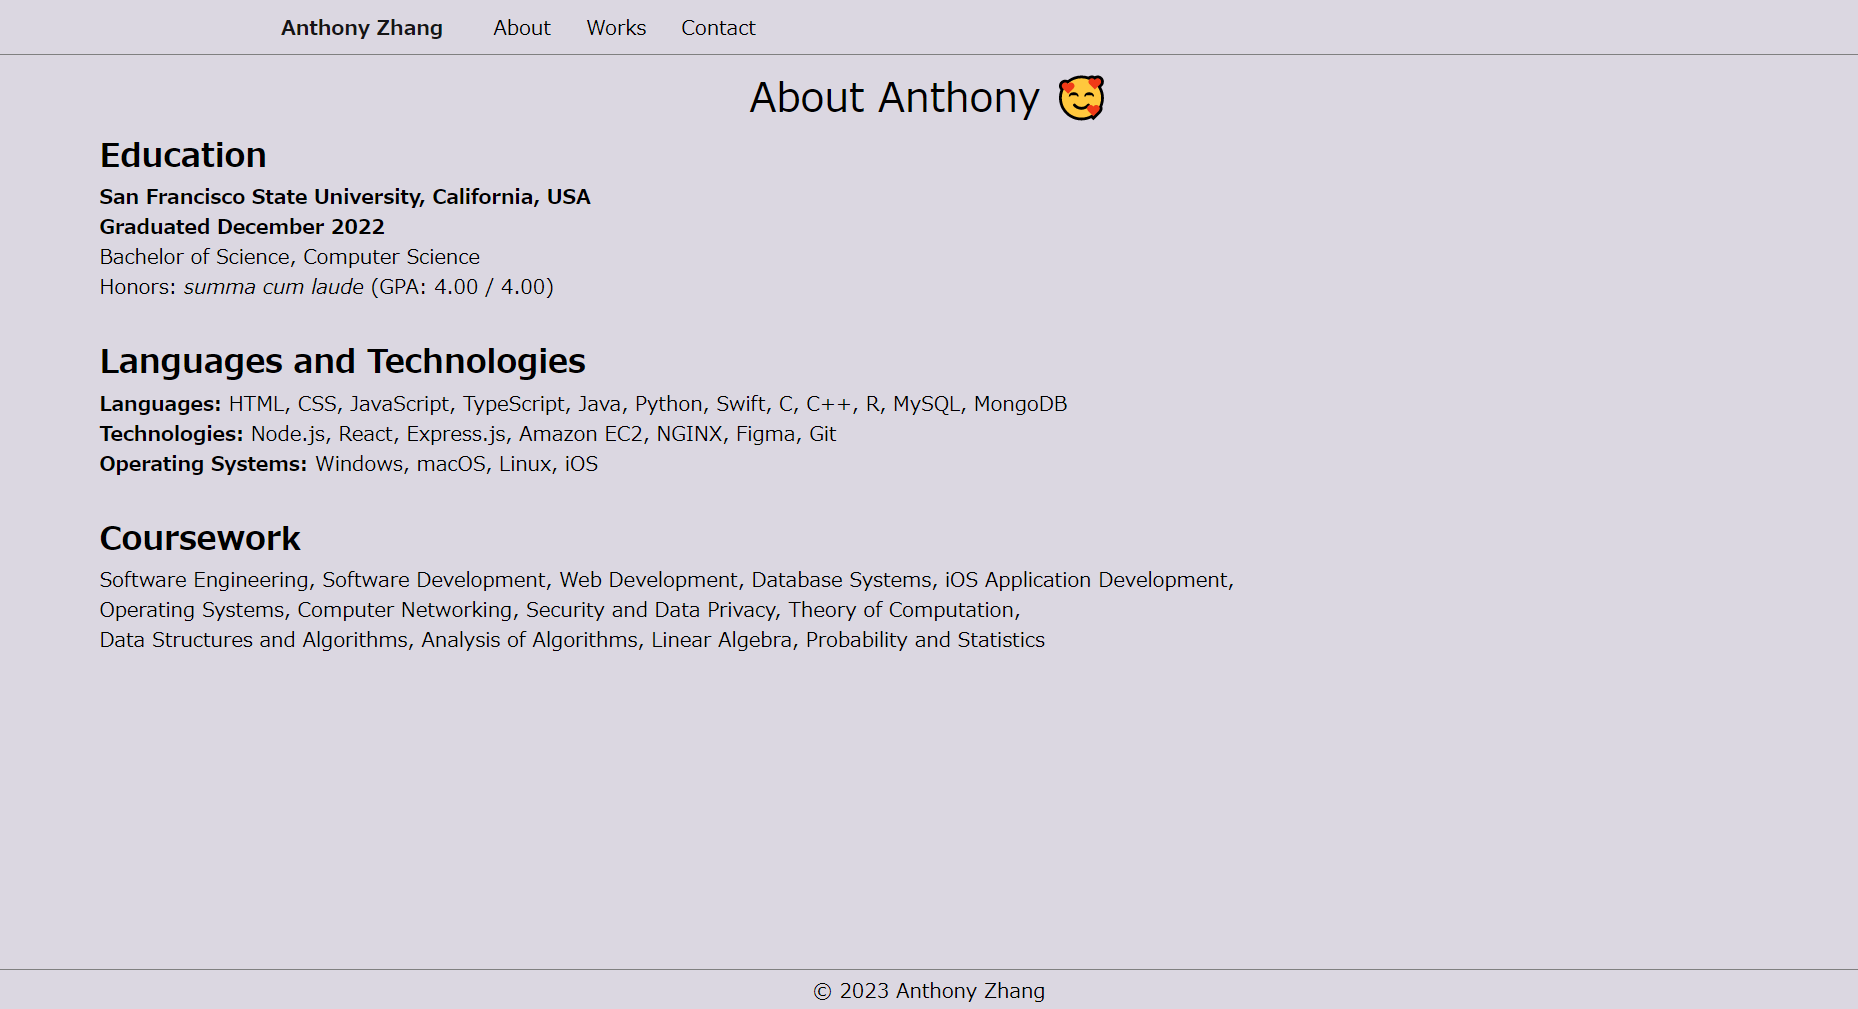
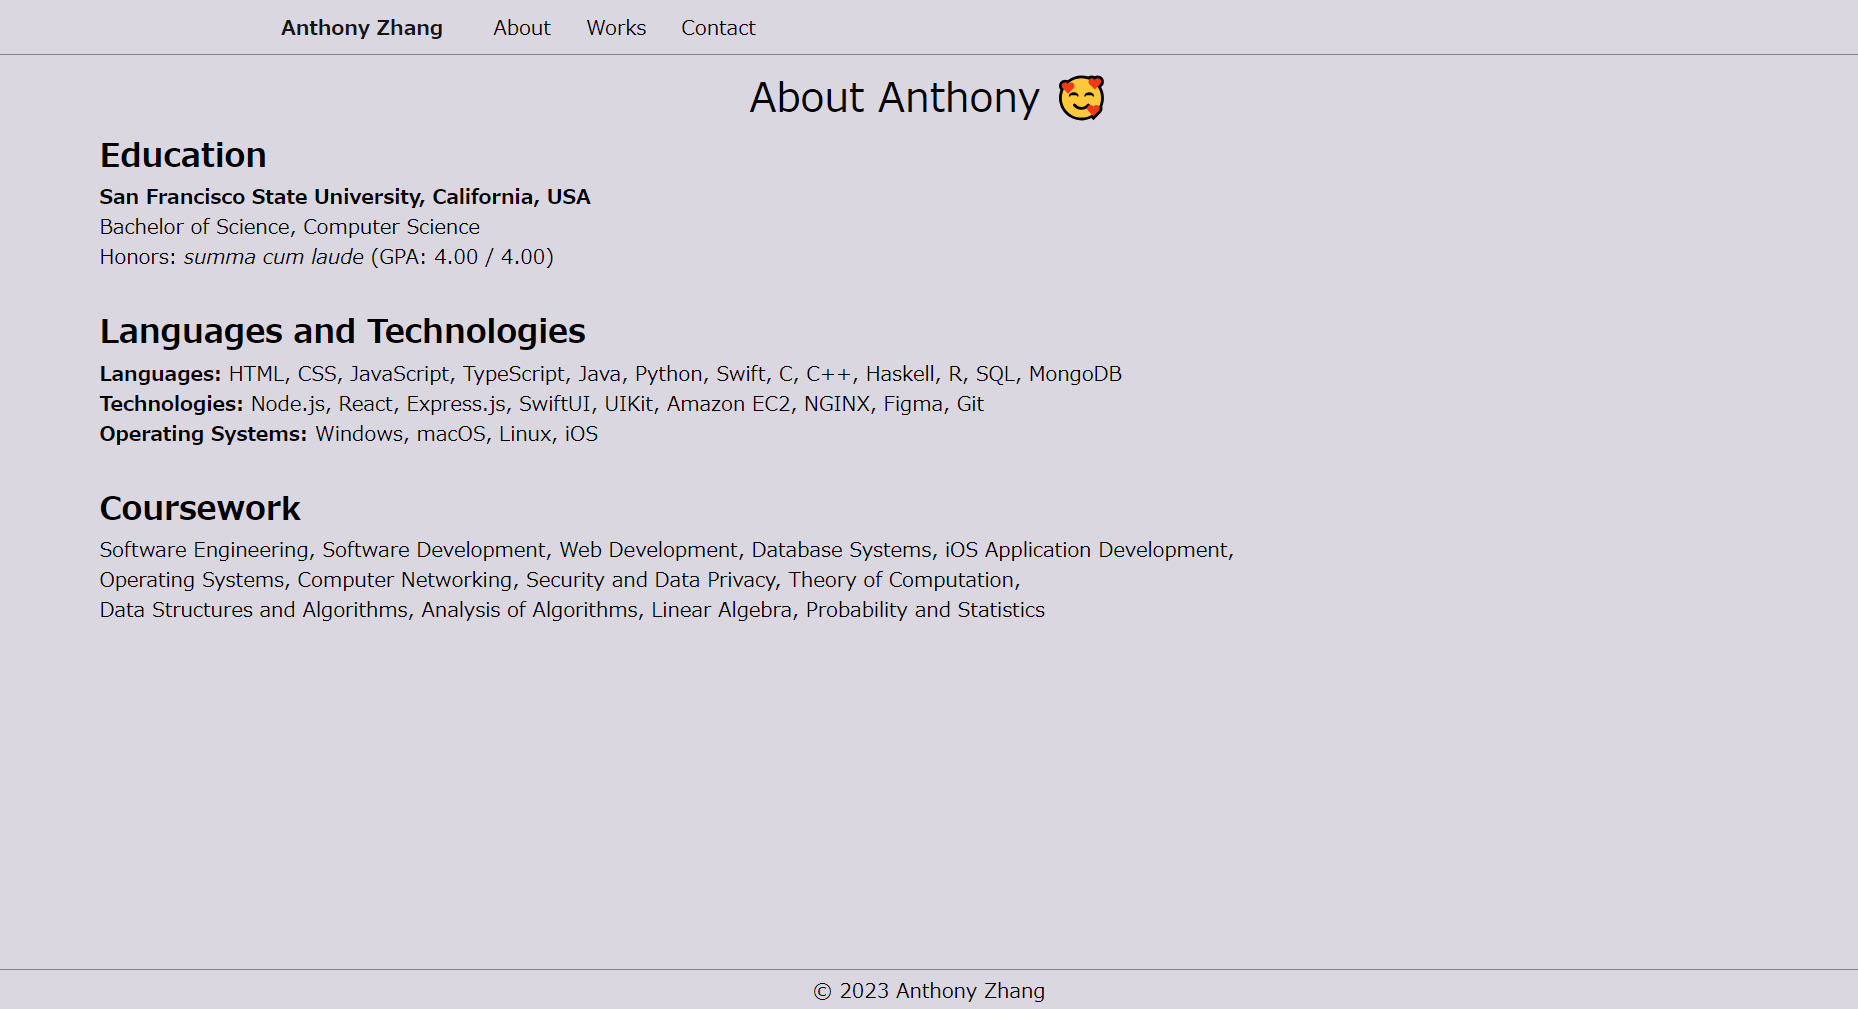
Updated the About page with new technologies. Updated the About page image in the Anthony Zhang's Website work.

Changed region(s): [[0.0312, 0.2151, 0.6555, 0.6452]]

diff --git a/src/pages/About.js b/src/pages/About.js
@@ -8,7 +8,6 @@ export default function About() {
       <h2 className='left-indent section-title'>Education</h2>
       <p className='left-indent section-body'>
         <b>San Francisco State University, California, USA</b> <br />
-        <b>Graduated December 2022</b> <br />
         Bachelor of Science, Computer Science <br />
         Honors: <i>summa cum laude</i> (GPA: 4.00 / 4.00)
       </p>
@@ -16,8 +15,8 @@ export default function About() {
       {/* Languages and Technologies Section */}
       <h2 className='left-indent section-title'>Languages and Technologies</h2>
       <p className='left-indent section-body'>
-        <b>Languages:</b> HTML, CSS, JavaScript, TypeScript, Java, Python, Swift, C, C++, R, MySQL, MongoDB <br />
-        <b>Technologies:</b> Node.js, React, Express.js, Amazon EC2, NGINX, Figma, Git <br />
+        <b>Languages:</b> HTML, CSS, JavaScript, TypeScript, Java, Python, Swift, C, C++, Haskell, R, SQL, MongoDB <br />
+        <b>Technologies:</b> Node.js, React, Express.js, SwiftUI, UIKit, Amazon EC2, NGINX, Figma, Git <br />
         <b>Operating Systems:</b> Windows, macOS, Linux, iOS
       </p>
 

diff --git a/src/pages/works/AnthonyZhangWebsite.js b/src/pages/works/AnthonyZhangWebsite.js
@@ -81,7 +81,7 @@ export default function AnthonyZhangWebsite() {
         imagePath='/images/works/anthony-zhang-website/work.png'
       />
 
-      <p className='page-last-updated'>Page Last Updated: March 14, 2023</p>
+      <p className='page-last-updated'>Page Last Updated: July 22, 2023</p>
     </div>
   );
 }
